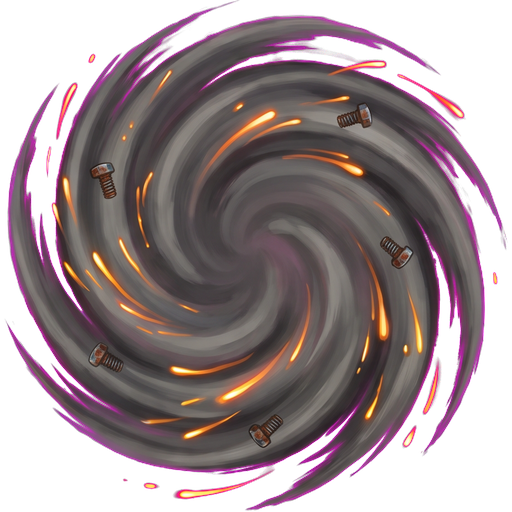
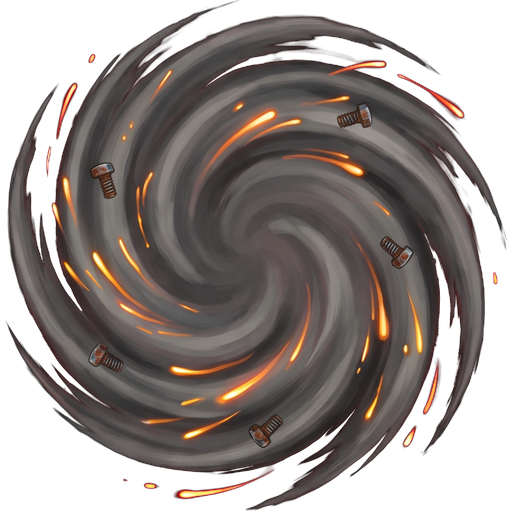
Tinker fling: silver solder, no magenta fringe

diff --git a/src/render/fx/costumeSkins.ts b/src/render/fx/costumeSkins.ts
@@ -114,15 +114,15 @@ const TINTS: Record<string, Record<number, number>> = {
     0xfff0c0: 0xffa090,
     0xffc040: 0xff4030,
   },
-  // Tinker's Hive: honey becomes hot brass solder and machine oil.
+  // Tinker's Hive: honey becomes molten silver solder and machine oil.
   tinker: {
-    0xffd060: 0xc8902c,
-    0xffe080: 0xe0aa48,
-    0xfff0b0: 0xf0d8a0,
-    0xffe8a0: 0xd8b070,
-    0xfff4d0: 0xe8e0d0,
-    0xfff0c0: 0xd8ccb0,
-    0xffc040: 0x9a6418,
+    0xffd060: 0xa8b0bc,
+    0xffe080: 0xc4ccd6,
+    0xfff0b0: 0xe4e8f0,
+    0xffe8a0: 0xd0d6e0,
+    0xfff4d0: 0xeef0f4,
+    0xfff0c0: 0xdce0e8,
+    0xffc040: 0x7c8490,
   },
   lavenderfield: {
     0xffd060: 0xd0a0ff,

diff --git a/tools/fx-prompts/rider_hq_cut.py b/tools/fx-prompts/rider_hq_cut.py
@@ -12,7 +12,11 @@ a = np.asarray(Image.open(raw).convert("RGB").resize((2048, 2048), Image.LANCZOS
 bg = np.median(np.concatenate([a[:8, :8].reshape(-1, 3), a[-8:, -8:].reshape(-1, 3), a[:8, -8:].reshape(-1, 3)]), 0)
 d = np.sqrt(((a - bg) ** 2).sum(-1))
 al = np.clip((d - 26) / 80, 0, 1)
-spill = np.clip(np.minimum(a[..., 0], a[..., 2]) - a[..., 1] - 30, 0, None) * (1 - al) ** 0.5
+# Costumes with no purple get the full magenta-spill strip (edge-only leaves pink halos on warm glows and sheens).
+if suf in ("@tinker",):
+    spill = np.clip(np.minimum(a[..., 0], a[..., 2]) - a[..., 1], 0, None)
+else:
+    spill = np.clip(np.minimum(a[..., 0], a[..., 2]) - a[..., 1] - 30, 0, None) * (1 - al) ** 0.5
 a[..., 0] -= spill
 a[..., 2] -= spill
 a = np.clip(a, 0, 255)

diff --git a/tools/fx-prompts/rider_fx_cut.py b/tools/fx-prompts/rider_fx_cut.py
@@ -45,7 +45,9 @@ def fit(a, al, rect, m=3):
 
 
 raw, name = sys.argv[1], sys.argv[2]
-a, al = keyed(raw, "@" in name)
+# Costumes with no purple in them get the full magenta-spill strip (edge-only leaves pink halos round warm glows).
+NO_PURPLE = {"rider@tinker"}
+a, al = keyed(raw, "@" in name and name not in NO_PURPLE)
 H, W = al.shape
 out = Image.new("RGBA", (512, 512), (0, 0, 0, 0))
 for i in range(16):

diff --git a/docs/decisions.md b/docs/decisions.md
@@ -1156,3 +1156,4 @@ Per hero: what a top player would exploit, taught to the CPUs (`src/sim/bot/tact
 - Bramble model costume TINKER'S HIVE (rider@tinker, the first of docs/remodels-new-champions.md): a wind-up tin-toy badger riding Mead rebuilt as an evil scrap-metal wasp (gunmetal and rust, red compound eyes in brass washers, threaded-rod legs with hex-nut knees, long stacked-collar abdomen with saw-tooth fins and a drill-bit stinger, perforated sheet-steel wings). Made by kit-bashing the shape in Blender, rendering it from 4 angles, painting one concept over those (Nano Banana, tools/costume/rider_tinker_concept.png + prompt) and one Tripo P1 mesh of rider and mount together (rider_tinker_full_tripo.glb, 20k faces) - a fal tin-toy repaint of the old bee came back too close to the existing recolours, and a pure Blender kit-bash read lower quality than the Tripo heroes. Built on the rider rig and clips by tools/blender/tripo_heroes/rider_tinker.py (rider.py's skinning with a costume classifier: wings = the two long blades, the brass wind-up key Tripo left floating is moved onto her back and turns on a new 'key' bone in every clip), a procedural steel spanner replaces the ladle, team dye on her tin coat. Costume icon (Nano Banana, matched to the stock-icon set) and solder-brass honey tints / red trail in costumeSkins. Cost: 3 Nano Banana images + 1 Tripo mesh (~$0.95).
 - Tinker's Hive effects: themed 4x4 atlas (assets/fx/rider@tinker.png: oil drop, solder blob, oil splash, oil puddle with bolts, hex nut, scrap wasp, welding sparks, washer, rivet, riveted brass heal plus, molten metal, cog, smoke streak, rusty sheet shard, soot whirl, cog ring) and HQ paintings (assets/fx/hq/rider.{pool,ring,splash,gust}@tinker.png: oil slick with bolts and a cog, riveted cog ring, oil crown splash with sparks, soot whirl with sparks and bolts) - two Nano Banana edits of Bramble's base sheets with the Tinker concept as the theme reference (prompts tools/fx-prompts/costume_{fx,hq}_rider_tinker_prompt.txt), cut by rider_fx_cut.py / rider_hq_cut.py. Loaded by filename, no code changes. Cost ~$0.30.
 - No shared skull-pentagram any more. The generic "telegraph" effect (a purple rune with a skull and a purple puff) showed for every delayed / splash blast whose champion kit did not draw its own - projectile splashes (Remnil charged orb, Wren long-arrow splash, Bramble honey fling) and Raise kills carried no src at all, so every costume got the same purple hex. Now every telegraph carries src (+ style "splash" / "raise"); runeTex is deleted; the fallback is a plain ring, flash and puff in the source costume trail colour; Remnil claims his charged-orb splash with his own costume atlas burst, smoke and sparkle. 0 telegraphs without src over 7 sim games.
+- Tinker's Hive fling: the solder blob was brass-gold with a magenta fringe (the edge-only spill strip used for purple costumes left pink halos on warm glows). rider_fx_cut / rider_hq_cut now strip magenta fully for rider@tinker (no purple in it); the fling cell is recoloured to molten silver solder and the costume honey tints move from brass to silver.
